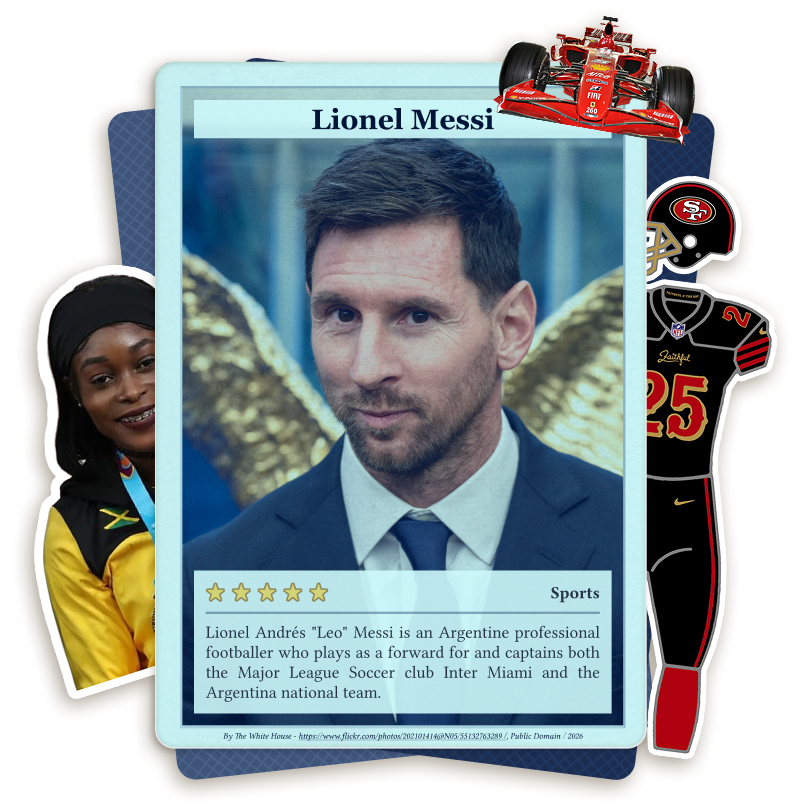
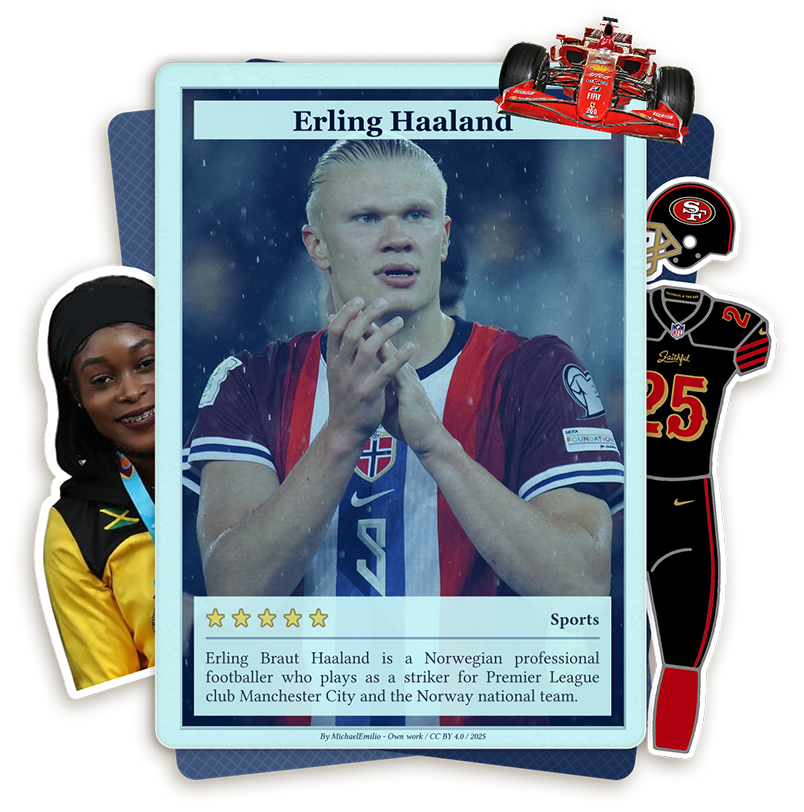
swap out sports asset image

diff --git a/src/data/categories.ts b/src/data/categories.ts
@@ -36,7 +36,7 @@ export const CATEGORY_HOME_CONFIG: Record<Category, CategoryHomeConfig> = {
     thumbnail: '/sports.png',
     bgCollage: '/sports-mainImg.png',
     collageCredits: [
-      { title: 'Lionel Messi White House 2026 (3x4 cropped).jpg', license: 'PDM', author: 'The White House', thumbnail: 'https://upload.wikimedia.org/wikipedia/commons/thumb/6/6b/Lionel_Messi_White_House_2026_%283x4_cropped%29.jpg/120px-Lionel_Messi_White_House_2026_%283x4_cropped%29.jpg', url: 'https://commons.wikimedia.org/w/index.php?title=File:Lionel_Messi_White_House_2026_(3x4_cropped).jpg&wprov=afsw1' },
+      { title: 'Erling Haaland June 2025', license: 'CC BY 4.0', author: 'MichaelEmilio', thumbnail: 'https://upload.wikimedia.org/wikipedia/commons/thumb/7/71/Erling_Haaland_June_2025.jpg/960px-Erling_Haaland_June_2025.jpg', url: 'https://commons.wikimedia.org/w/index.php?title=File:Erling_Haaland_June_2025.jpg&wprov=afsw1' },
       { title: 'San Francisco 49ers Uniforms 2025.png', license: 'CC BY-SA 4.0', author: 'DaRealConMan', thumbnail: 'https://upload.wikimedia.org/wikipedia/commons/thumb/d/d3/San_Francisco_49ers_Uniforms_2025.png/120px-San_Francisco_49ers_Uniforms_2025.png', url: 'https://commons.wikimedia.org/w/index.php?title=File:San_Francisco_49ers_Uniforms_2025.png&wprov=afsw1' },
       { title: 'Ferrari F2008 front Museo Ferrari.jpg', license: 'CC BY-SA 3.0', author: 'Morio', thumbnail: 'https://upload.wikimedia.org/wikipedia/commons/thumb/5/5e/Ferrari_F2008_front_Museo_Ferrari.jpg/120px-Ferrari_F2008_front_Museo_Ferrari.jpg', url: 'https://commons.wikimedia.org/w/index.php?title=File:Ferrari_F2008_front_Museo_Ferrari.jpg&wprov=afsw1' },
       { title: 'Elaine Thompson Herah at the 2019 Pan American Games.jpg', license: 'CC BY-SA 4.0', author: 'Editor4wikip', thumbnail: 'https://upload.wikimedia.org/wikipedia/commons/thumb/b/b9/Elaine_Thompson_Herah_at_the_2019_Pan_American_Games.jpg/120px-Elaine_Thompson_Herah_at_the_2019_Pan_American_Games.jpg', url: 'https://commons.wikimedia.org/w/index.php?title=File:Elaine_Thompson_Herah_at_the_2019_Pan_American_Games.jpg&wprov=afsw1' },
